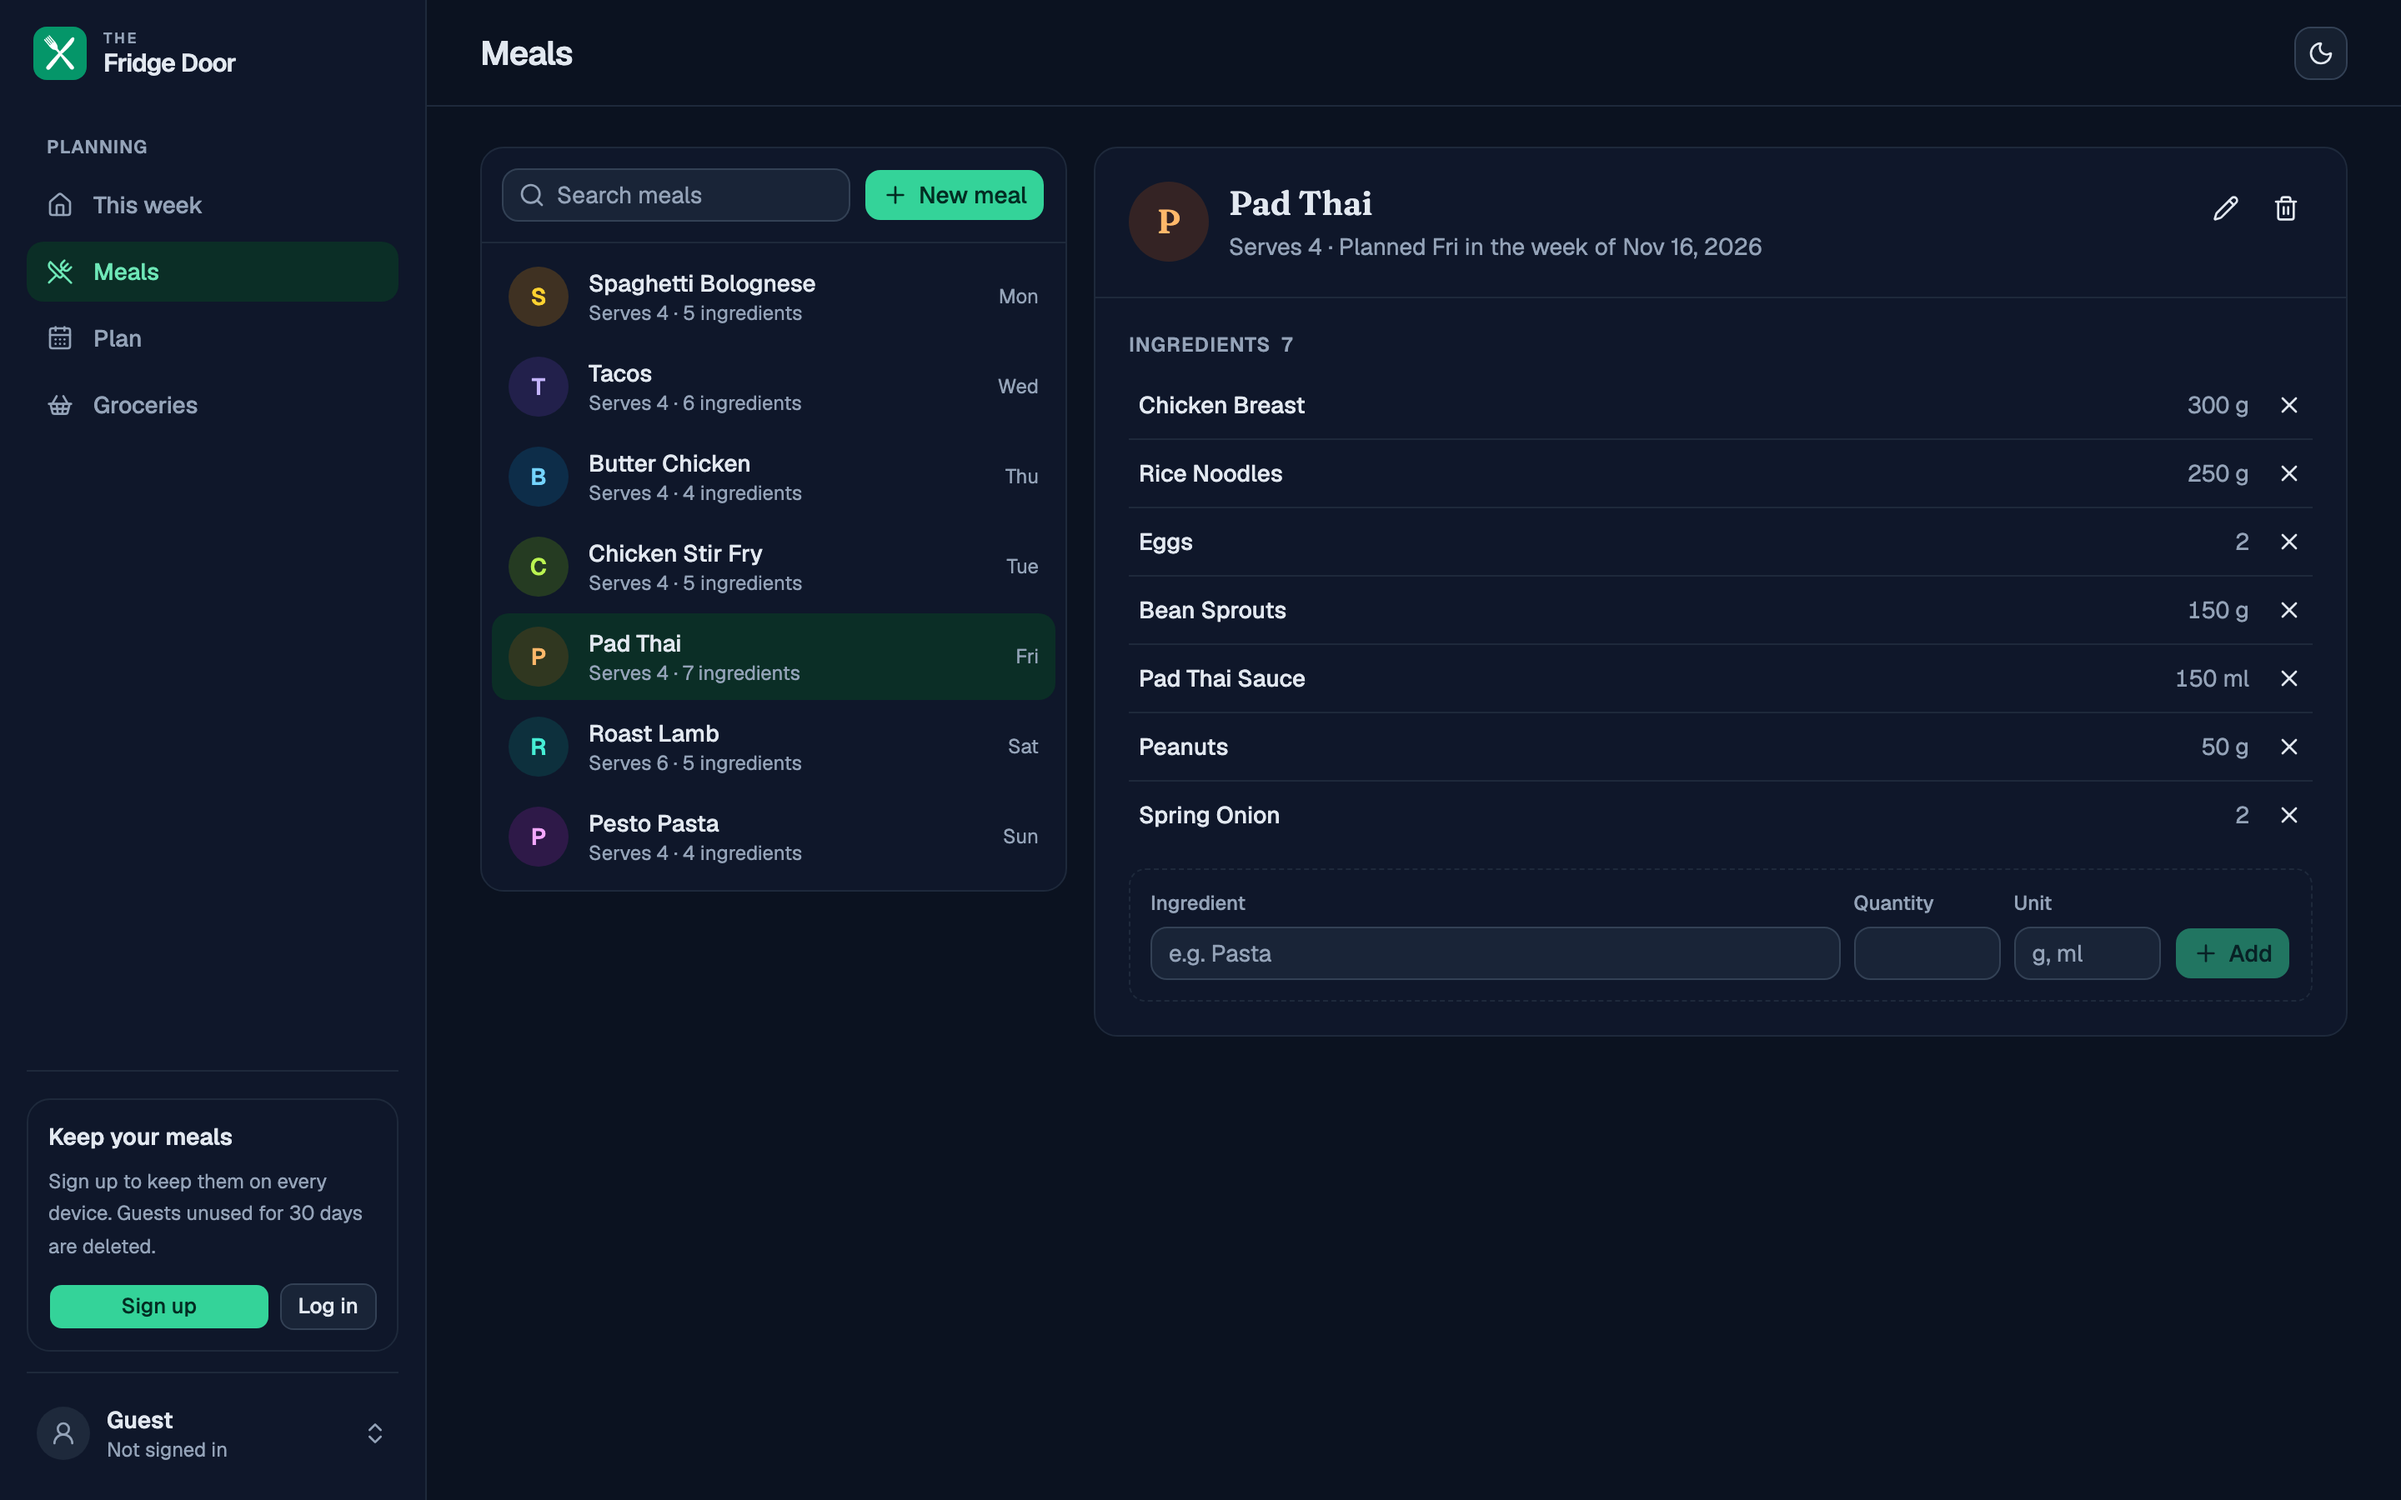
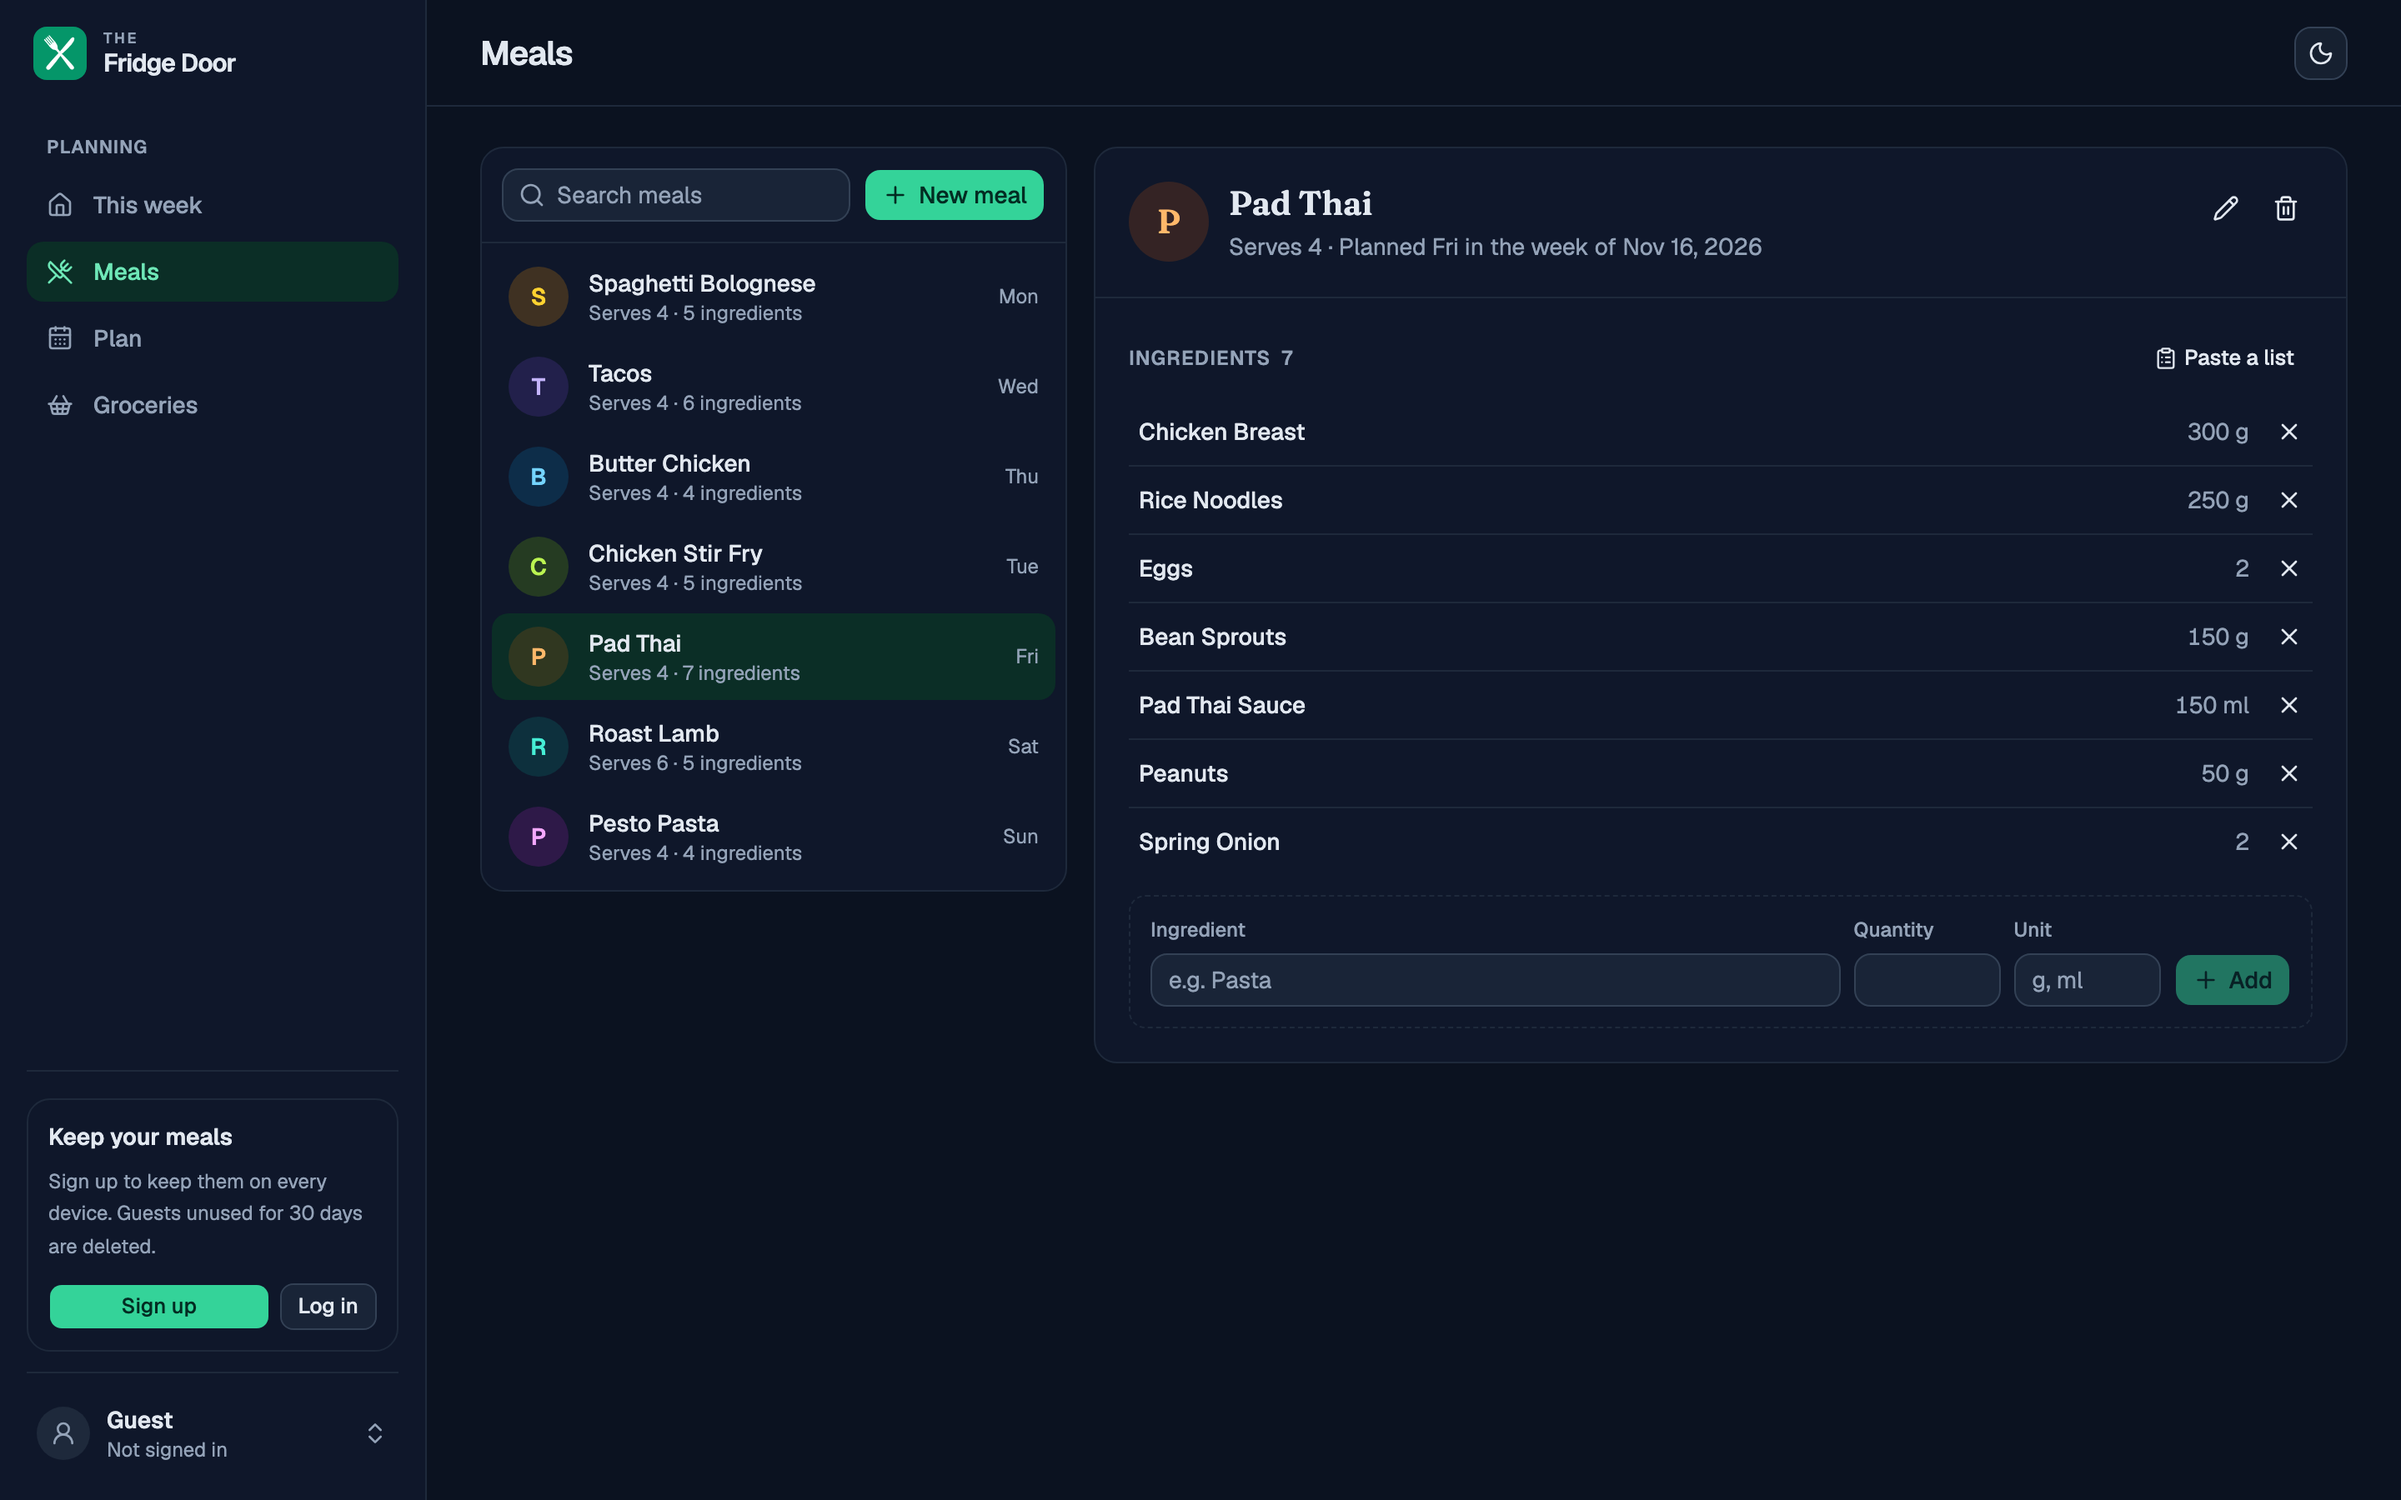
docs: recipe import as a headline feature in the README

diff --git a/web/screenshots/readme.spec.ts b/web/screenshots/readme.spec.ts
@@ -9,7 +9,7 @@
 
 import { fileURLToPath } from "node:url";
 
-import { expect, type Page, test } from "@playwright/test";
+import { expect, type Locator, type Page, test } from "@playwright/test";
 
 const OUT = fileURLToPath(new URL("../../docs/images/", import.meta.url));
 
@@ -84,12 +84,36 @@ async function setTheme(page: Page, theme: "light" | "dark") {
   await page.evaluate((theme) => localStorage.setItem("theme", theme), theme);
 }
 
-async function shoot(page: Page, name: string) {
+async function shoot(page: Page, name: string, only?: Locator) {
   // Let fonts load and transitions finish, so nothing is caught mid-fade.
   await page.evaluate(() => document.fonts.ready);
   await page.mouse.move(0, 0);
   await page.waitForTimeout(300);
-  await page.screenshot({ path: `${OUT}${name}.png`, animations: "disabled" });
+  const options = { path: `${OUT}${name}.png`, animations: "disabled" } as const;
+  await (only ? only.screenshot(options) : page.screenshot(options));
+}
+
+/**
+ * The recipe-import preview, read from the end-to-end tests' fixture site
+ * (playwright.config.ts) by the real server. The fixture is served from
+ * 127.0.0.1, an odd thing to show in a README, so the page it came from is
+ * shown as recipes.example, a domain reserved for examples. Nothing else
+ * in the response is touched.
+ */
+async function importARecipe(page: Page, week: string) {
+  await page.route("**/api/recipes/import", async (route) => {
+    const response = await route.fetch();
+    const recipe = await response.json();
+    await route.fulfill({
+      response,
+      json: { ...recipe, url: "https://recipes.example/weeknight-beef-ragu/" },
+    });
+  });
+  await page.goto(`/meals?week=${week}&meal=new`);
+  await page.getByLabel("Recipe link").fill("http://127.0.0.1:4175/ragu.html");
+  await page.getByRole("button", { name: "Import" }).click();
+  await expect(page.getByRole("heading", { name: "Check the recipe" })).toBeVisible();
+  await page.unroute("**/api/recipes/import");
 }
 
 test("README screenshots", async ({ page }) => {
@@ -102,6 +126,9 @@ test("README screenshots", async ({ page }) => {
     await page.goto(`/?week=${week}`);
     await expect(page.getByText("Tonight", { exact: false }).first()).toBeVisible();
     await shoot(page, `this-week-${theme}`);
+
+    await importARecipe(page, week);
+    await shoot(page, `import-${theme}`, page.getByRole("region", { name: "New meal" }));
 
     if (theme === "light") continue;
 

diff --git a/tests/test_parsing.py b/tests/test_parsing.py
@@ -146,7 +146,7 @@ LINES: list[tuple[str, float | None, str, str]] = [
     ("2 400 g tins chickpeas", 800, "g", "Chickpeas"),
     # Footnote marks and prices are not part of the name.
     ("2 cups vegetable stock*", 2, "cups", "Vegetable Stock"),
-    ("1 cup ditalini (uncooked)** ($0.39)", 1, "cups", "Ditalini"),
+    ("1 cup ditalini (uncooked)** ($0.39)", 1, "cups", "Pasta"),
     # No amount.
     ("Salt and pepper, to taste", None, "", "Salt and pepper"),
     ("Salt to taste", None, "", "Salt"),

diff --git a/README.md b/README.md
@@ -23,6 +23,10 @@ planned.
 
 ## Engineering highlights
 
+- **Recipe import from any link, safely.** The server fetches a page a
+  stranger chose, so it is held to server-side request forgery guards, reads
+  hostile input in linear time, and parses ingredient lines with rules
+  checked against live recipe sites. ([how it works](#import-a-recipe-from-a-link))
 - **Two walls around everyone's data.** Every query is scoped to the person
   asking, and Postgres row-level security filters again underneath, so a
   query that forgot its filter still returns nothing of anyone else's. The
@@ -47,6 +51,57 @@ planned.
   browser test, and error reports that never say who.
   ([security](docs/security.md))
 
+## Import a recipe from a link
+
+<picture>
+  <source media="(prefers-color-scheme: light)" srcset="docs/images/import-light.png">
+  <img align="right" width="360" alt="Checking an imported recipe: Weeknight Beef Ragu, serves 6, with seven ingredient rows. Each shows the line as the page wrote it above how it was read, such as 2 x 400 g cans diced tomatoes read as 800 g of Diced Tomatoes. Salt and pepper, to taste, is flagged for having no amount." src="docs/images/import-dark.png">
+</picture>
+
+Paste a recipe page's link and the app reads its name, servings and every
+ingredient. You check each line, then the meal is created in one request.
+
+**How it works**
+
+1. **The page describes itself.** Recipe sites publish a machine-readable
+   copy of each recipe for search engines: schema.org `Recipe` data, as
+   JSON-LD inside the page. The server fetches the page and reads that, so
+   one reader works across sites and survives a redesign.
+2. **Each line is read by rules.** "2 x 400 g cans diced tomatoes" is 800 g
+   of Diced Tomatoes; "1 lb / 500g beef mince" keeps the metric 500 g;
+   "2 garlic cloves, crushed" is 2 cloves of Garlic, with "crushed" set
+   aside. Names are matched to the ingredient catalogue, so the grocery list
+   adds them up with every other meal.
+3. **You check before anything is saved.** Each row shows the line as the
+   page wrote it above how it was read, with a note on anything doubtful: no
+   amount, a range resolved, a name the app does not know.
+
+**The engineering in it**
+
+- **Fetching a URL someone else chose.** Only public addresses: private,
+  loopback, link-local, cloud metadata and IPv4-mapped forms are refused.
+  The server connects to the exact address it checked, sending the name as
+  Host and as the TLS server name, so DNS rebinding cannot swap in an
+  internal address while the certificate is still verified. Every redirect
+  is checked again; 5 seconds, 2 MB and HTML only; 20 imports an hour per
+  person, failures included. Each refusal is tested without the network.
+  ([security](docs/security.md#requests))
+- **Linear on hostile input.** Python's `html.parser` took minutes on a page
+  of two megabytes of `<`, which anyone could host. It was replaced with a
+  single-pass scan, and a timed test holds every hostile shape found, at the
+  full 2 MB, to under a second.
+- **Rules, not a language model.** Free to run, the same answer every time,
+  and nothing on a page can talk it into anything. 109 table-driven example
+  lines pin its behaviour, and 14 of its rules were broken on purpose, one
+  at a time: the table caught every one.
+- **Checked against live sites.** Real pages exposed lines the hand-written
+  fixtures had not: notes in nested brackets, one amount in two units,
+  preparation with no comma before it. Each became a failing test line, then
+  a fix. Sites that turn away non-browser clients get a plain message
+  suggesting paste, not a disguised User-Agent.
+
+<br clear="right">
+
 ## Features
 
 <img align="right" width="230" alt="The grocery list on a phone, with the tab bar along the bottom" src="docs/images/groceries-phone.png">
@@ -57,16 +112,12 @@ planned.
   device brings it back.
 - **This week** opens on tonight's meal and what it needs, tomorrow's, and
   how much of the week is planned.
-- **Meals** with a serving size and ingredients. **Paste a recipe's whole
-  ingredient list** and each line is read for you ("1 x 400 g can chopped
-  tomatoes" is 400 g of Diced Tomatoes, "2-3 garlic cloves" is 3 cloves),
-  shown to check and correct, then saved in one request. **Or import a
-  recipe from its link:** the page's recipe data gives the name, servings
-  and ingredients, checked the same way before the meal is created. Or add
-  them one at
-  a time, with autocomplete that fills in the usual unit. Names match
-  ignoring case and units are stored one way ("clove", "Cloves"), so "Eggs"
-  and "eggs" stay one item rather than splitting the shopping list.
+- **Meals** with a serving size and ingredients, three ways in: import a
+  recipe from its link ([above](#import-a-recipe-from-a-link)), paste a
+  recipe's ingredient list to be read the same way, or add them one at a
+  time with autocomplete that fills in the usual unit. Names match ignoring
+  case and units are stored one way ("clove", "Cloves"), so "Eggs" and
+  "eggs" stay one item rather than splitting the shopping list.
 - **About 40 templates** of common meals, ingredients filled in, added in
   one click.
 - **Weekly plan:** pick a meal and servings for each day of any week; it
